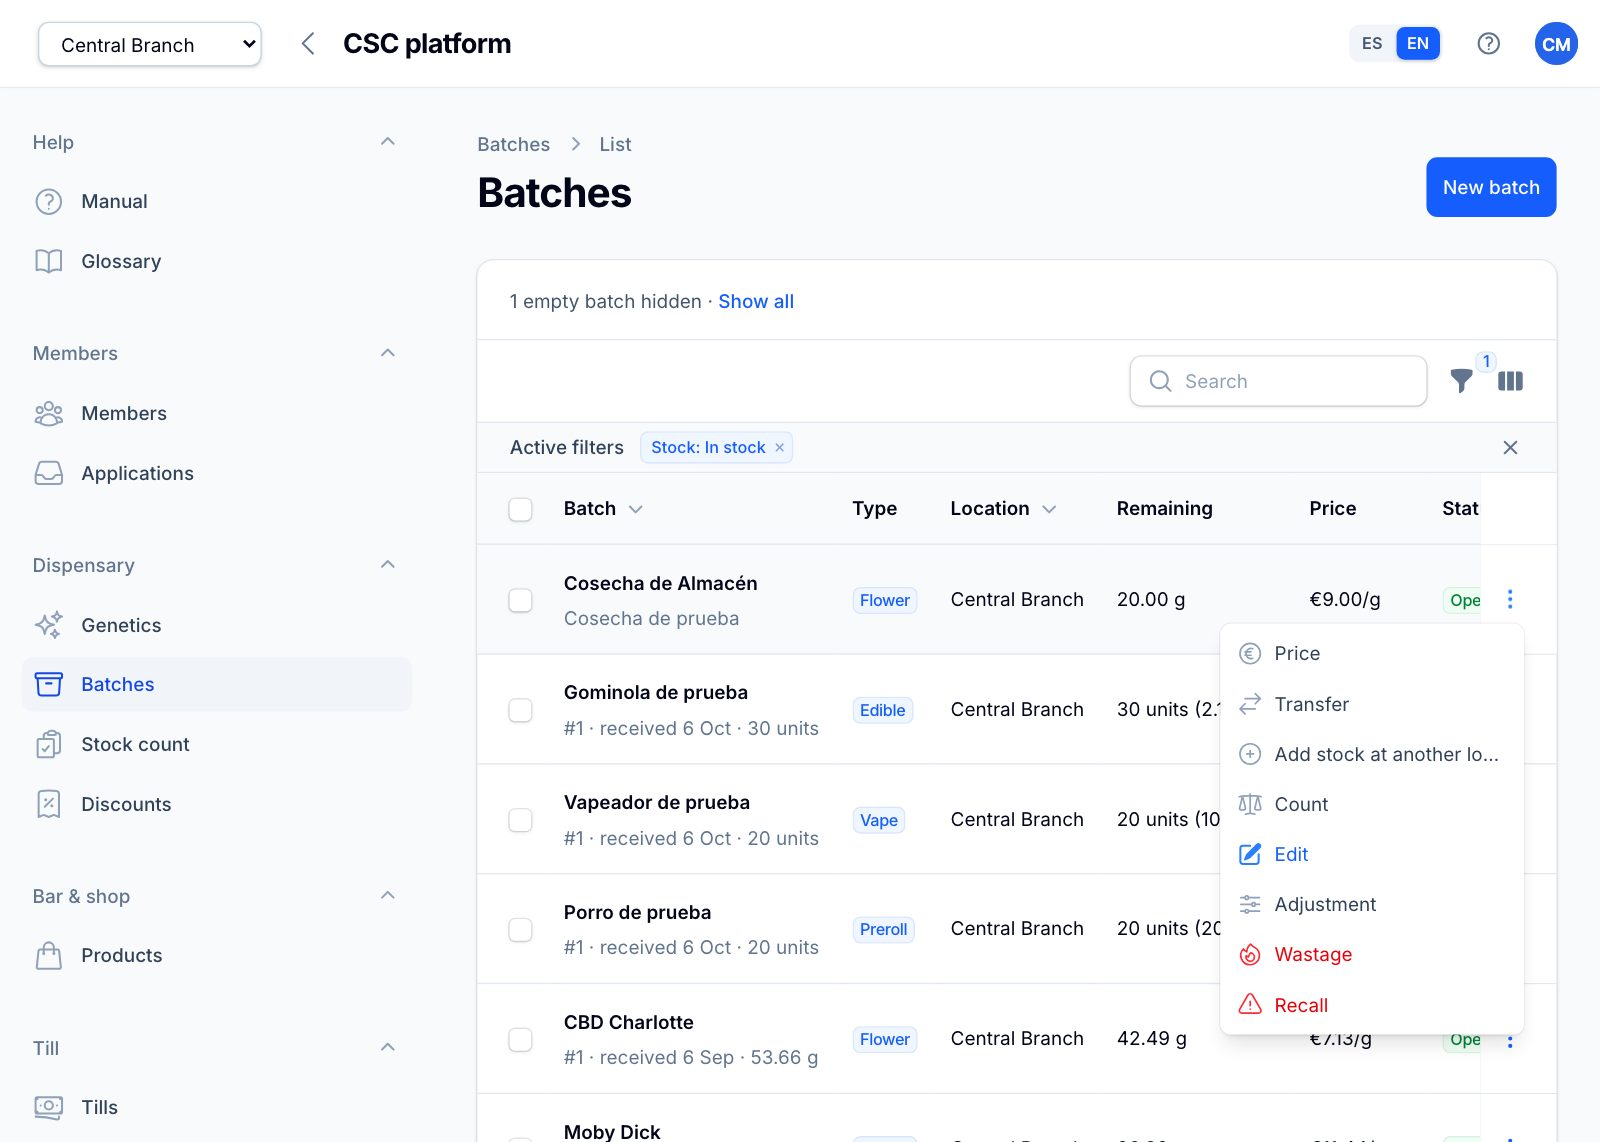
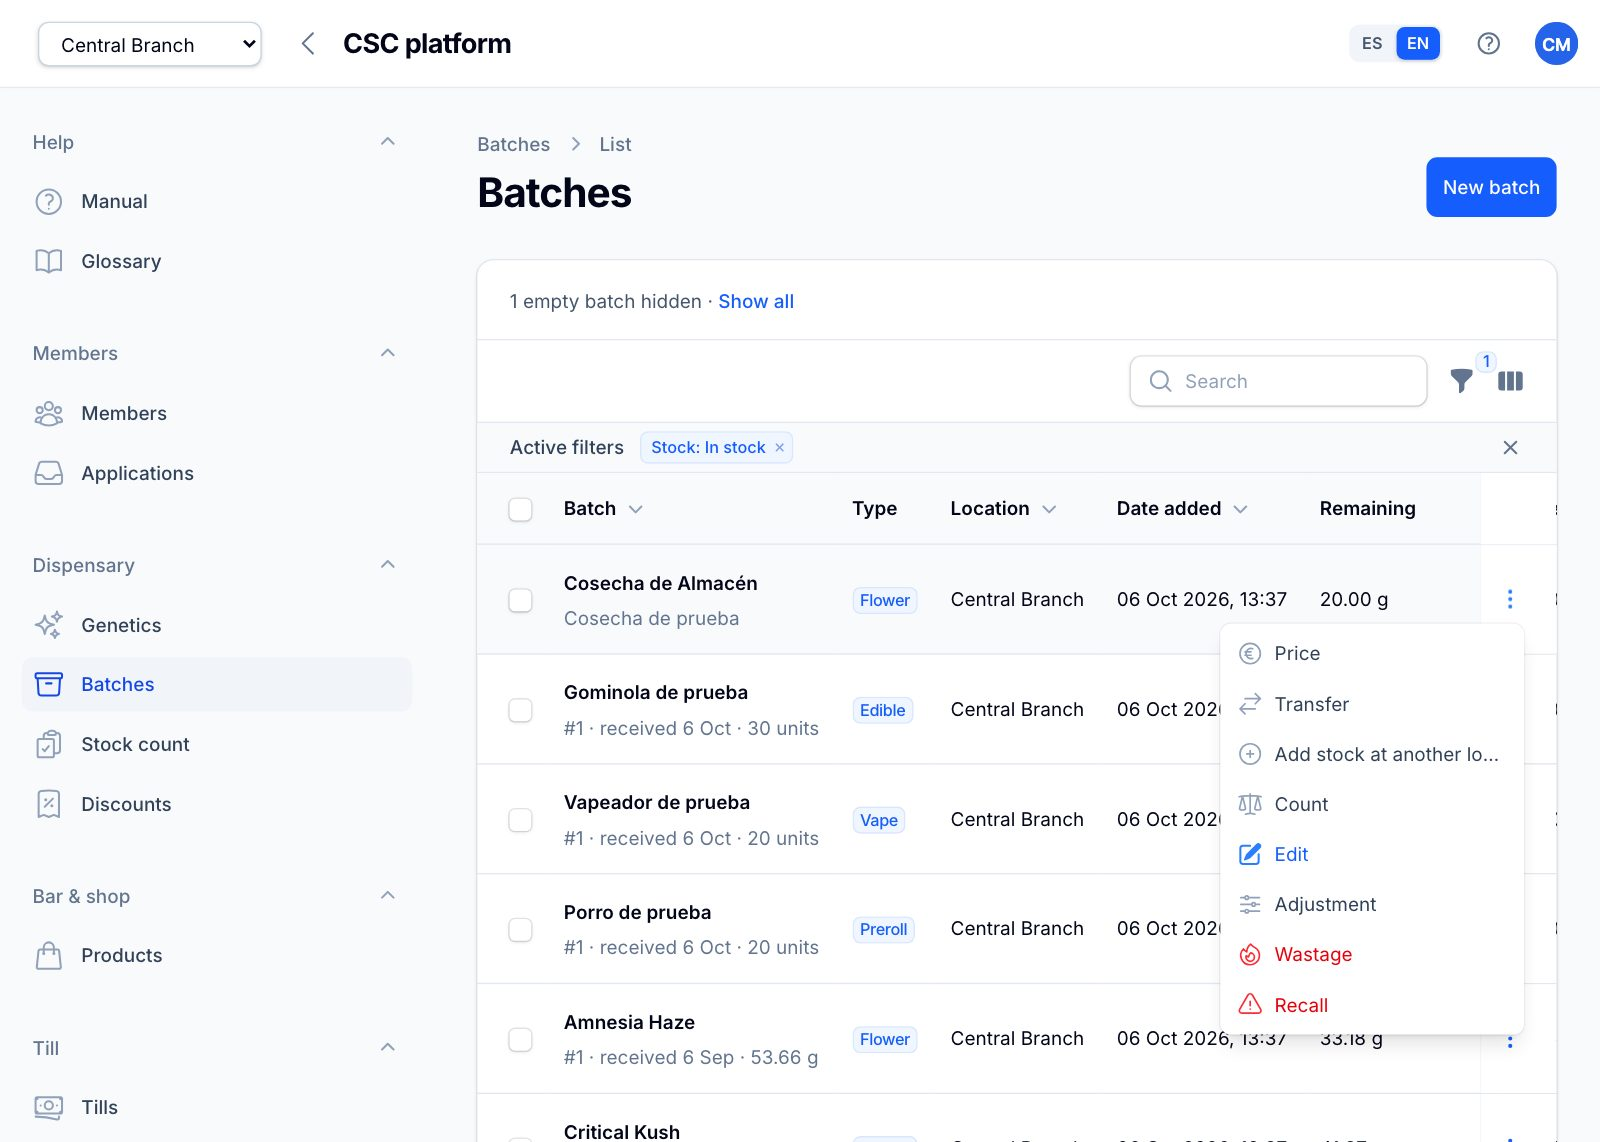
feat(stock): Batches gets a sortable «Añadido» (date added) column, and «Recibido» to switch on
«Añadido» is the batch's created_at in the sede's time, after Sede, sortable — so a sort by Lote persisted in the
session is one click from date order, and anyone can see what was entered today. «Recibido»
(acquired_or_harvested_on, the default sort's date) is sortable and hidden by default. A transferred child batch
shows when it arrived here. The default sort is unchanged. Manager guide text and two screenshots updated.

Claude-Session: https://claude.ai/code/session_01JxcuX4zpbtLwRQJ9oHz38d

diff --git a/tests/Feature/Stock/BatchDateColumnsTest.php b/tests/Feature/Stock/BatchDateColumnsTest.php
@@ -1,0 +1,108 @@
+<?php
+
+namespace Tests\Feature\Stock;
+
+use App\Enums\BatchStatus;
+use App\Enums\Role;
+use App\Filament\Resources\Batches\Pages\ListBatches;
+use App\Models\Batch;
+use App\Models\Genetic;
+use App\Models\Location;
+use App\Models\Organisation;
+use App\Models\User;
+use App\Support\ActiveScope;
+use Carbon\CarbonImmutable;
+use Database\Seeders\RolePermissionSeeder;
+use Filament\Facades\Filament;
+use Illuminate\Foundation\Testing\RefreshDatabase;
+use Livewire\Features\SupportTesting\Testable;
+use Livewire\Livewire;
+use Tests\TestCase;
+
+/**
+ * Prompt 357 — Ben, on /batches?sort=lote:desc: "date added field". The list had no date column, so a sort by Lote
+ * (persisted in the session) could not be undone by a click, and nobody could see when a batch was entered.
+ */
+class BatchDateColumnsTest extends TestCase
+{
+    use RefreshDatabase;
+
+    private Location $sede;
+
+    private Batch $older;
+
+    private Batch $newer;
+
+    protected function setUp(): void
+    {
+        parent::setUp();
+        app()->setLocale('es');
+        $this->seed(RolePermissionSeeder::class);
+        Filament::setCurrentPanel(Filament::getPanel('admin'));
+        $org = Organisation::factory()->create();
+        app(ActiveScope::class)->setOrganisation($org->id);
+        $this->sede = Location::factory()->create(['organisation_id' => $org->id, 'timezone' => 'Europe/Madrid']);
+        app(ActiveScope::class)->setLocation($this->sede->id);
+        $owner = User::factory()->create();
+        $owner->assignRole(Role::OWNER->value);
+        $owner->locations()->sync([$this->sede->id]);
+        $this->actingAs($owner);
+
+        // ADDED in the opposite order to RECEIVED, so the two columns' sorts can be told apart. Names A (older add) / Z.
+        $make = fn (string $name, string $added, string $received): Batch => Batch::factory()->create([
+            'organisation_id' => $org->id, 'location_id' => $this->sede->id, 'status' => BatchStatus::OPEN, 'remaining_cg' => 1000,
+            'genetic_id' => Genetic::factory()->create(['organisation_id' => $org->id, 'name' => $name])->id,
+            'created_at' => $added, 'acquired_or_harvested_on' => $received,
+        ]);
+        $this->older = $make('Amnesia', '2026-09-01 08:15:00', '2026-10-01');
+        $this->newer = $make('Zkittlez', '2026-10-05 18:40:00', '2026-08-01');
+    }
+
+    /** @return list<string> */
+    private function order(Testable $list): array
+    {
+        return $list->instance()->getTableRecords()->map(fn (Batch $b): string => (string) $b->getKey())->values()->all();
+    }
+
+    public function test_the_list_shows_anadido_with_the_date_and_time_in_the_sedes_timezone(): void
+    {
+        $list = Livewire::test(ListBatches::class);
+        $column = $list->instance()->getTable()->getColumn('created_at');
+
+        $this->assertNotNull($column, 'no «Añadido» column');
+        $this->assertSame(__('Añadido'), $column->getLabel());
+        $this->assertFalse($column->isToggledHiddenByDefault());
+        // 18:40 UTC on 5 Oct is 20:40 in Madrid (summer time).
+        $list->assertSee(CarbonImmutable::parse('2026-10-05 18:40:00', 'UTC')->setTimezone('Europe/Madrid')->translatedFormat('d M Y, H:i'));
+
+        $names = collect($list->instance()->getTable()->getColumns())->keys()->values()->all();
+        $this->assertSame(array_search('location.name', $names, true) + 1, array_search('created_at', $names, true), '«Añadido» sits right after «Sede»');
+    }
+
+    public function test_anadido_sorts_both_ways_and_replaces_a_persisted_sort(): void
+    {
+        $list = Livewire::test(ListBatches::class)->sortTable('lote', 'desc'); // the sort Ben had, which then sticks
+        $this->assertSame([(string) $this->newer->id, (string) $this->older->id], $this->order($list));
+
+        $list->sortTable('created_at', 'asc');
+        $this->assertSame([(string) $this->older->id, (string) $this->newer->id], $this->order($list));
+        $list->sortTable('created_at', 'desc');
+        $this->assertSame([(string) $this->newer->id, (string) $this->older->id], $this->order($list));
+    }
+
+    public function test_recibido_exists_sortable_and_hidden_by_default(): void
+    {
+        $column = Livewire::test(ListBatches::class)->instance()->getTable()->getColumn('acquired_or_harvested_on');
+
+        $this->assertNotNull($column);
+        $this->assertSame(__('Recibido'), $column->getLabel());
+        $this->assertTrue($column->isSortable());
+        $this->assertTrue($column->isToggledHiddenByDefault());
+    }
+
+    public function test_the_default_sort_is_still_newest_received_first(): void
+    {
+        // Received: older batch on 1 Oct, newer batch on 1 Aug → the OLDER-added batch is first by receipt (308).
+        $this->assertSame([(string) $this->older->id, (string) $this->newer->id], $this->order(Livewire::test(ListBatches::class)));
+    }
+}

diff --git a/app/Filament/Resources/Batches/Tables/BatchesTable.php b/app/Filament/Resources/Batches/Tables/BatchesTable.php
@@ -75,6 +75,18 @@ class BatchesTable
                     ->searchable()
                     ->sortable()
                     ->visible(fn (): bool => Location::query()->active()->count() > 1),
+                // Prompt 357 (Ben: "date added field") — when the batch was ENTERED here: its own created_at, in the sede's
+                // time. A part transferred from the store is a child batch created by the transfer, so it shows when it
+                // arrived HERE. Sortable, so a sort by Lote that stuck in the session (persistSortInSession) is one click
+                // from date order again.
+                TextColumn::make('created_at')->label(__('Añadido'))
+                    ->dateTime('d M Y, H:i')
+                    ->timezone(fn (Batch $record): string => $record->location?->timezone ?: 'Europe/Madrid')
+                    ->sortable(),
+                // …and when it was RECEIVED or harvested (the date the default sort, 308, uses) — the subtitle already
+                // says it, so hidden until switched on.
+                TextColumn::make('acquired_or_harvested_on')->label(__('Recibido'))->date()->sortable()->placeholder('—')
+                    ->toggleable(isToggledHiddenByDefault: true),
                 TextColumn::make('remaining')
                     ->label(__('Restante'))
                     ->state(function (Batch $record): string {

diff --git a/DECISIONS.md b/DECISIONS.md
@@ -19997,3 +19997,30 @@ through 316's one display rule, `NumberFormat::decimal()`, following the existin
   much; managers type no reason; the batch-price link; waiving is one tap for managers.
 - **355 had not arrived** when this was built: the half-gram rounding replaces the calculated price before an
   adjustment, and the adjustment replaces the final total either way.
+
+## Prompt 357 — Batches gets a sortable «Añadido» (date added) column
+
+- **«Añadido» (Date added)** is the batch's own `created_at`, shown as `d M Y, H:i` in the **sede's** timezone
+  (`locations.timezone`, falling back to Europe/Madrid). It's sortable, visible by default, and placed right after
+  *Sede*.
+  - **Why it mattered:** the list has `persistSortInSession()`. Once Ben sorted by *Lote* (`?sort=lote:desc`), that
+    sort stuck, and there was no date header to click back to date order. Nor could anyone see when a batch was
+    entered (what was added today; what was mis-priced on intake, 356).
+  - **Note on the demo data:** it seeds Central and the Store as UTC and North as Europe/Madrid, so batches created in
+    the same second read two hours apart there. That is the per-sede rule working.
+- **«Recibido» (Received)** is `acquired_or_harvested_on`, the date 308's default sort uses. It's sortable and
+  toggleable, hidden by default, since the *Lote* subtitle already says it.
+- **The default sort is unchanged:** newest received first, `COALESCE(acquired_or_harvested_on, created_at) DESC`.
+  It already meets 354's newest-first rule.
+- **A transferred child batch** (277's part transfer) shows its OWN `created_at`: when the transfer created it here.
+  That is the right answer to "added here".
+- **Tests:** `tests/Feature/Stock/BatchDateColumnsTest.php` (4). Two batches were added in the opposite order to
+  their receipt, so the sorts can be told apart.
+  - **Red before:** «Añadido» present with the Madrid time, after *Sede*; sortable both ways, replacing a persisted
+    *Lote* sort; «Recibido» sortable and hidden by default.
+  - **Green before, a pin:** the default sort is still by receipt.
+- **The browser proof** (`tests/Browser/prove-357-batch-dates.mjs`, 1440×900, `/batches?sort=lote:desc`): the column
+  sits after *Sede*, and one click on it replaces the *Lote* sort.
+  - 354's iPhone sweep, re-run on the same DB: still 52/52 (the Batches pin is 48 px; the first column is clear).
+- **The guide:** `manager-guide.md` explains *Date added* / *Received*. `c05` and `c18` were regenerated with their
+  recipes (English accounts, fresh demo DB) so the list shows the new column.

diff --git a/resources/guides/en/manager-guide.md b/resources/guides/en/manager-guide.md
@@ -91,6 +91,8 @@ If the price is below the cost, the form warns you before you save. After saving
 
 *The Batches list: newest first, empty batches hidden, each location on its own line.*
 
+**Date added** shows when each batch was entered at that location (a batch moved from the store shows when it arrived). Click its header to sort by it, for example to check what was added today. **Received** (the delivery or harvest date) can be switched on from the columns button.
+
 ## 5. Moving stock between locations
 
 Three different actions, depending on what really happened:
